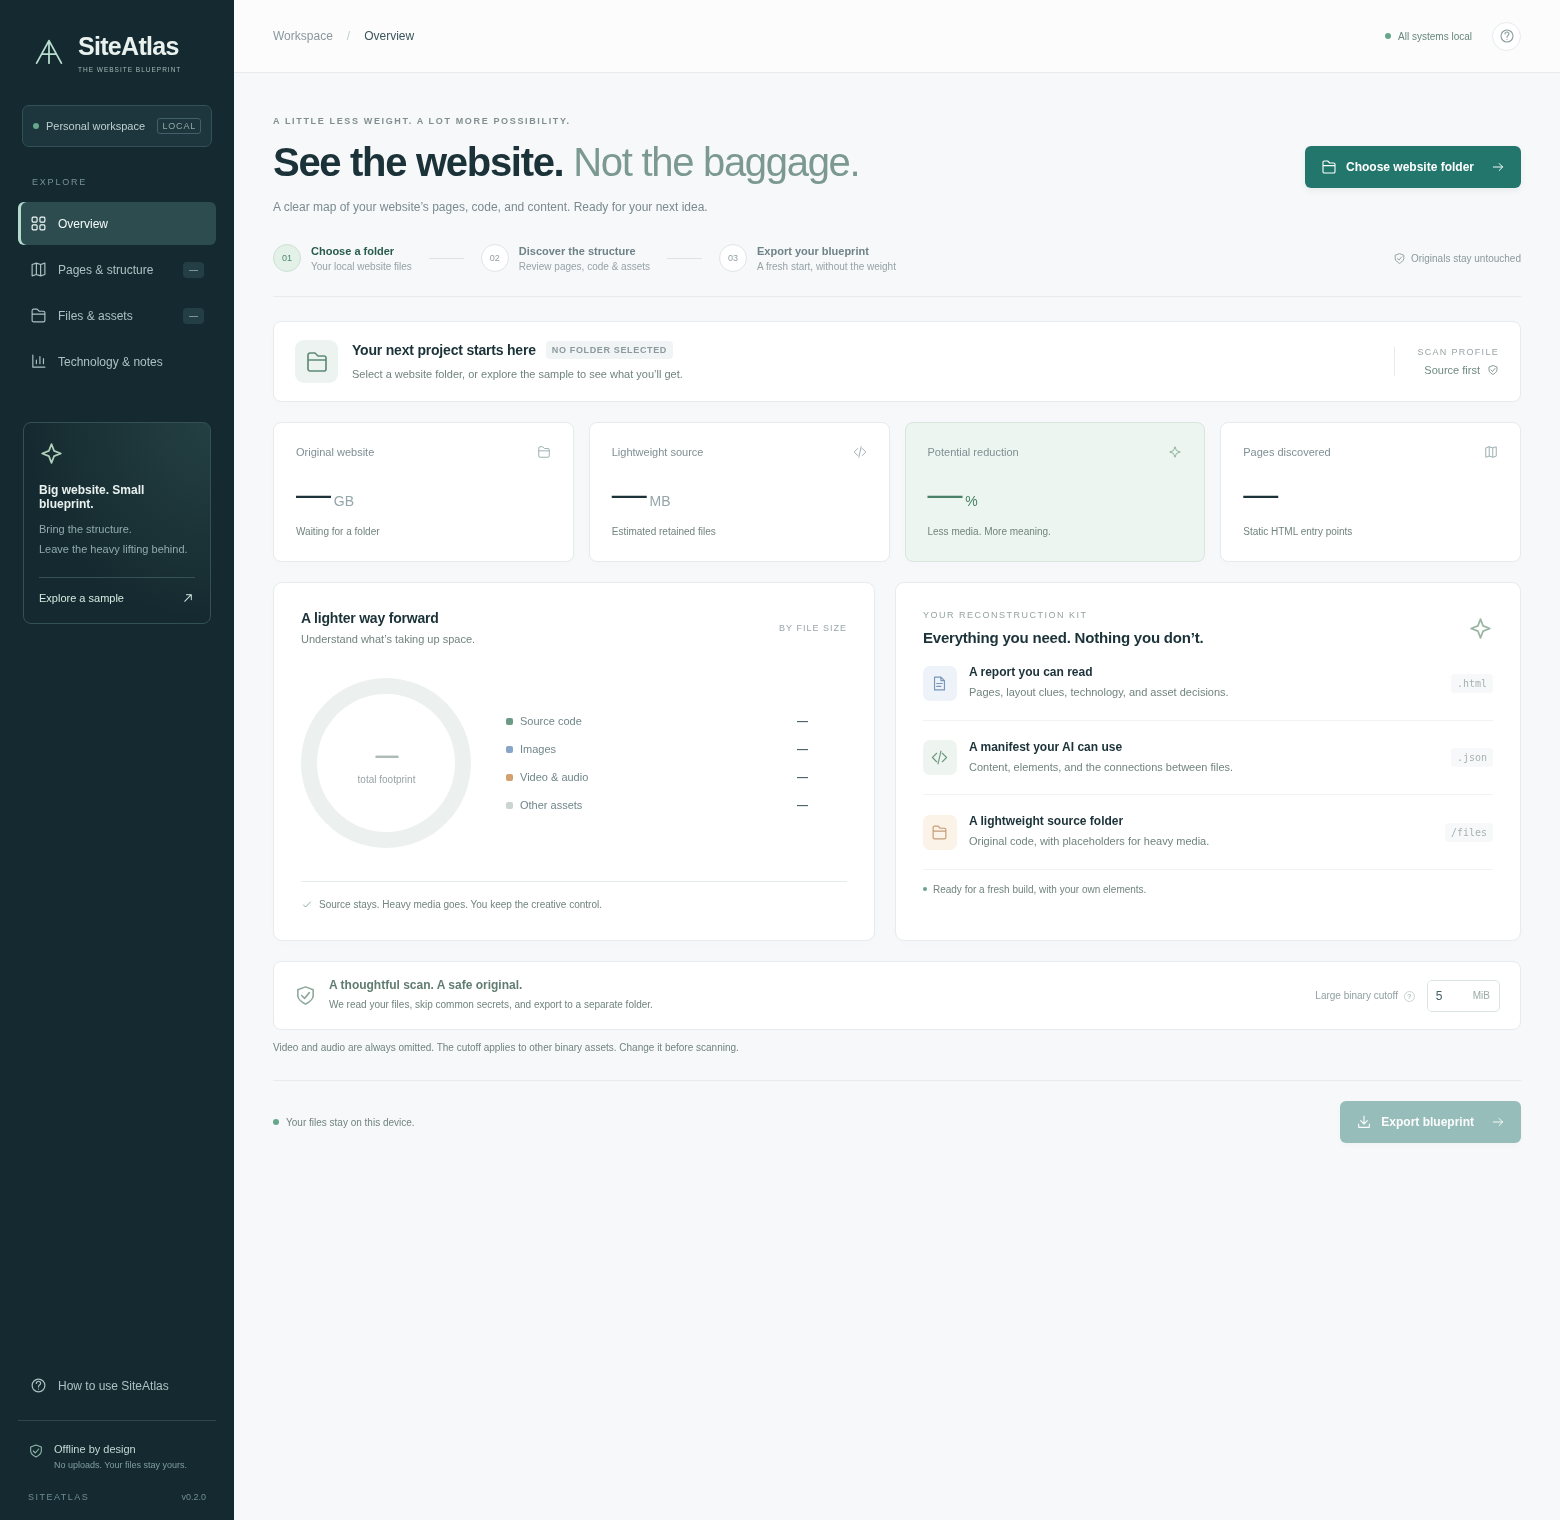
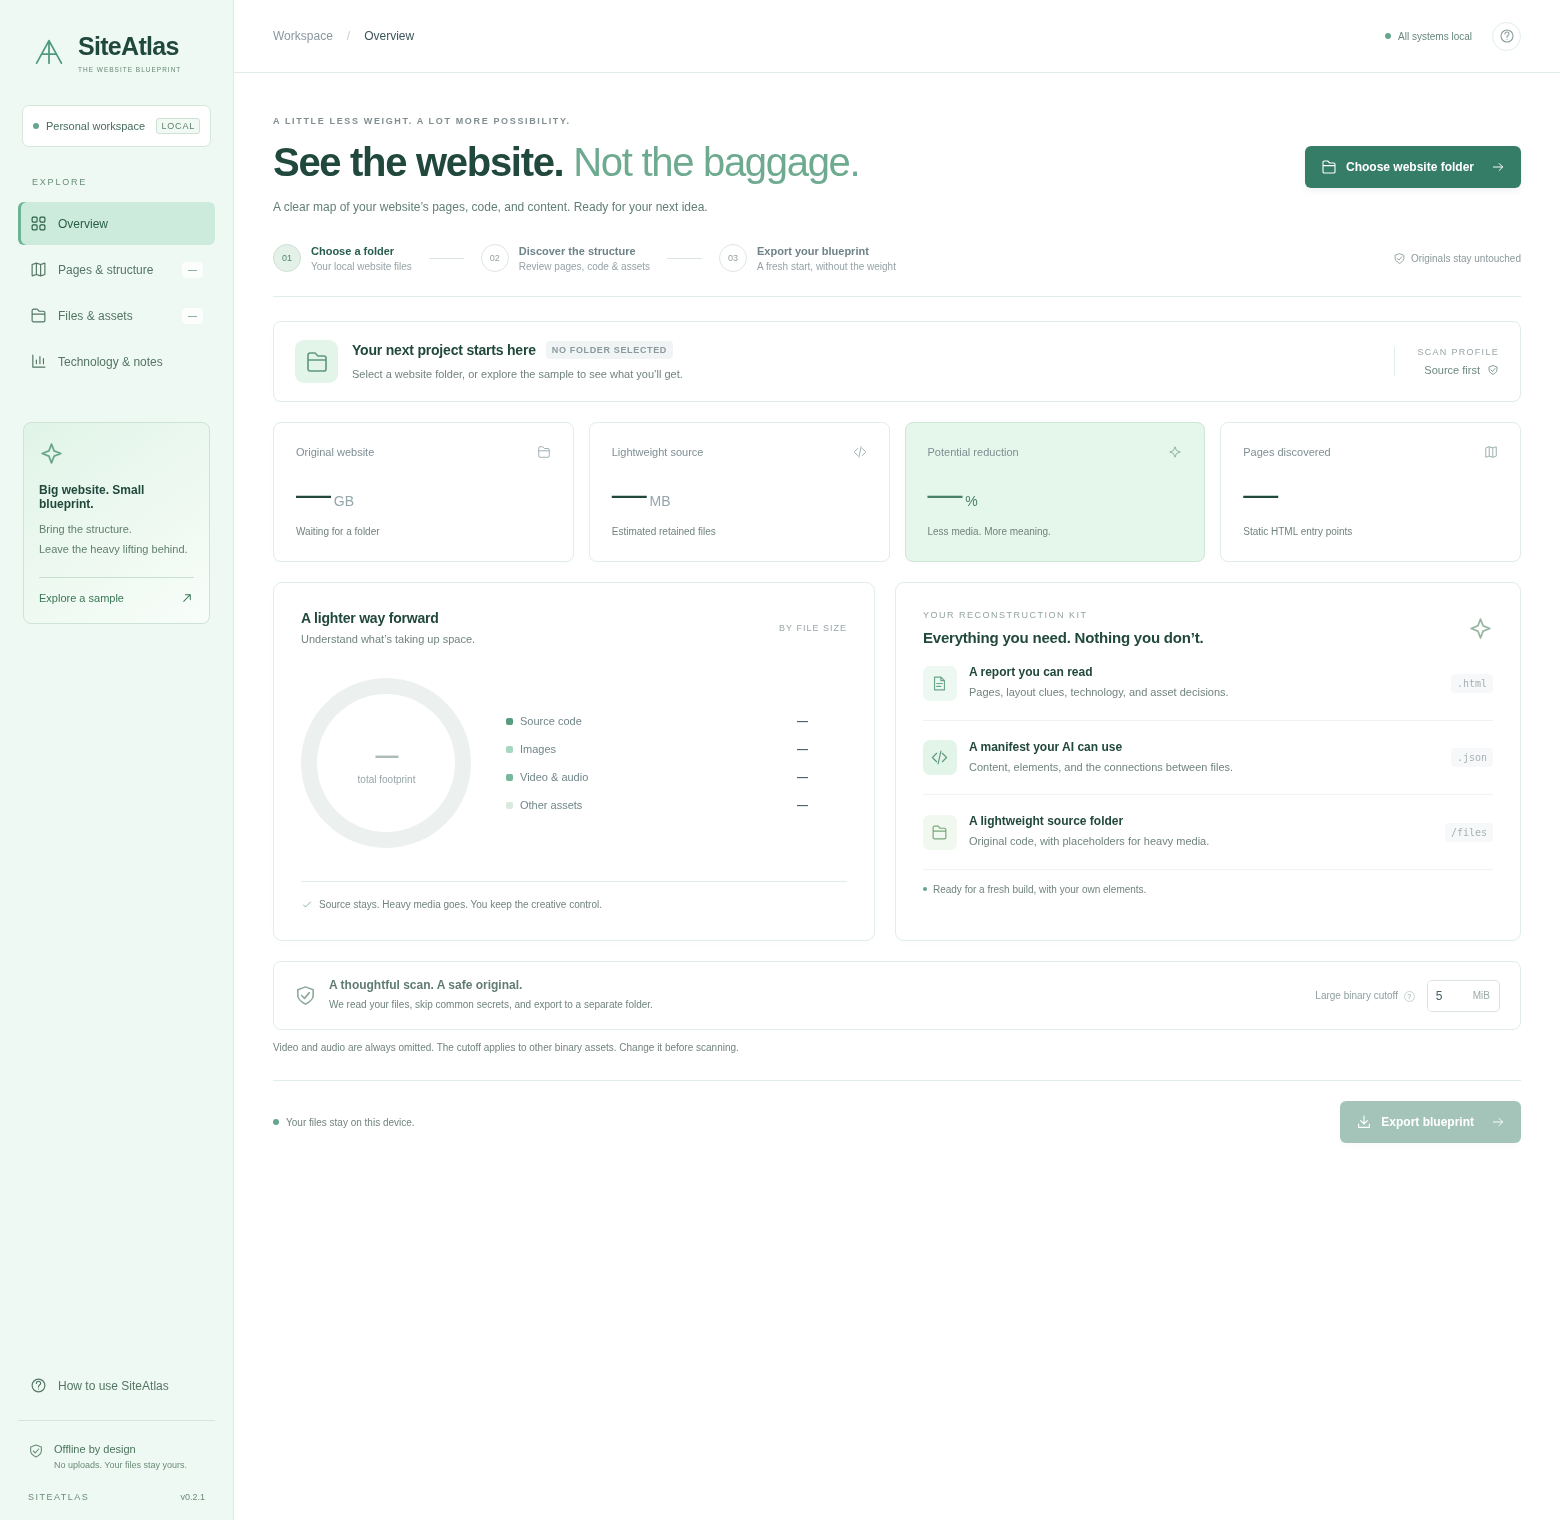
Apply white and seafoam theme and publish direct Windows release downloads

Changed region(s): [[0.0, 0.0, 0.1538, 1.0]]

diff --git a/src/style.css b/src/style.css
@@ -1846,3 +1846,111 @@ footer {
 .guide-tip {
   color: #73877a;
 }
+/* White and seafoam: the same light palette across every surface. */
+:root {
+  --nav: #eff9f4;
+  --nav-muted: #557d6e;
+  --bg: #ffffff;
+  --paper: #ffffff;
+  --ink: #21483c;
+  --muted: #627f73;
+  --line: #e0eee7;
+  --teal: #357d67;
+  --teal-light: #e5f6ed;
+  --orange: #8abca9;
+  --blue: #9acdb7;
+}
+.sidebar {
+  color: #21483c;
+  border-right: 1px solid #dcece2;
+}
+.brand-mark {
+  color: #4f997d;
+}
+.brand > div:last-child > span {
+  color: #658875;
+}
+.workspace-tag {
+  color: #466e5c;
+  background: #ffffff;
+  border-color: #d4e8dc;
+}
+.keycap {
+  color: #61816e;
+  border-color: #cde2d5;
+  background: #f0f9f3;
+}
+.nav-label,
+.version {
+  color: #698d79;
+}
+.nav {
+  color: #547565;
+}
+.nav:hover {
+  background: #e1f3e8;
+}
+.nav.active {
+  background: #cdebdc;
+  color: #285d46;
+  box-shadow: inset 3px 0 #6cb394;
+}
+.nav-count,
+.nav.active .nav-count {
+  background: #ffffffb8;
+  color: #52846b;
+}
+.sidebar-note {
+  border-color: #cce4d5;
+  background: linear-gradient(145deg, #e1f4e8, #f8fdf9);
+}
+.note-art {
+  color: #6aa689;
+}
+.sidebar-note p {
+  color: #62806d;
+}
+.sample-link {
+  color: #397755;
+  border-color: #c8e0d0;
+}
+.privacy {
+  color: #4c735c;
+  border-color: #d2e6d9;
+}
+.privacy svg,
+.privacy span {
+  color: #6b8c77;
+}
+header {
+  background: #ffffff;
+}
+h1 span {
+  color: #6eaa90;
+}
+.project-icon,
+.teal {
+  background: #e3f5e9;
+  color: #5f997c;
+}
+.blue {
+  background: #edf8f2;
+  color: #68a58a;
+}
+.peach {
+  background: #f0f8ef;
+  color: #7aa57b;
+}
+.metrics .savings-card {
+  background: #e5f6eb;
+  border-color: #cce7d6;
+}
+.primary {
+  background: #357d67;
+}
+.primary:hover:not(:disabled) {
+  background: #28644f;
+}
+footer {
+  background: #fffffff5;
+}

diff --git a/src/renderer.js b/src/renderer.js
@@ -3,7 +3,7 @@ let data = null,
   operation = null,
   activeView = "overview";
 const NS = "http://www.w3.org/2000/svg";
-const palette = ["#6b9b86", "#87a5c8", "#d4a06f", "#cbd5d0"];
+const palette = ["#579d7f", "#a6d8c0", "#77b79b", "#d9eae0"];
 const categories = ["Source code", "Images", "Video & audio", "Other assets"];
 const titles = {
   overview: [

diff --git a/src/index.html b/src/index.html
@@ -128,7 +128,7 @@
             Offline by design<span>No uploads. Your files stay yours.</span>
           </div>
         </div>
-        <div class="version">SITEATLAS <span>v0.2.0</span></div>
+        <div class="version">SITEATLAS <span>v0.2.1</span></div>
       </div>
     </aside>
     <main>

diff --git a/docs/USER-GUIDE.md b/docs/USER-GUIDE.md
@@ -81,12 +81,12 @@ Click **How to use SiteAtlas** in the sidebar or the question-mark button at the
 
 ## Windows installation
 
-- **Installer:** run `SiteAtlas-0.2.0-x64-Setup.exe`, choose an install location, and launch from the Start menu or desktop shortcut.
-- **Portable:** run `SiteAtlas-0.2.0-x64-portable.exe`. No Node.js or separate Electron installation is needed. It extracts its runtime to a temporary directory while running.
+- **Installer:** run `SiteAtlas-0.2.1-x64-Setup.exe`, choose an install location, and launch from the Start menu or desktop shortcut.
+- **Portable:** run `SiteAtlas-0.2.1-x64-portable.exe`. No Node.js or separate Electron installation is needed. It extracts its runtime to a temporary directory while running.
 - Windows 10/11 **64-bit** is the target. ARM and 32-bit Windows are not included.
 - Builds are unsigned. Windows may show an unknown-publisher or SmartScreen prompt. Verify where you downloaded the executable and its checksum. A signing certificate is not included.
 
-To get a fresh GitHub build, open **Actions → Windows executable → latest successful run → Artifacts → SiteAtlas-Windows-x64**. The artifact contains both executables. The workflow runs automatically when app/build files change on `main`, and can also be started manually.
+[Download the portable Windows executable](https://github.com/Sam4d/Manifest/releases/latest/download/SiteAtlas-Windows-x64.exe), or open [Releases](https://github.com/Sam4d/Manifest/releases/latest) for the installer and SHA-256 checksums. Each new version is published after successful native Windows checks and packaging. The download is named `SiteAtlas-Windows-x64.exe` for a stable direct link.
 
 ## Troubleshooting
 

diff --git a/README.md b/README.md
@@ -13,7 +13,9 @@ Two self-contained **Windows 10/11 x64** executables are built:
 - **Setup** — an installer with a location picker and Start menu / desktop shortcuts.
 - **Portable** — run without installing. Node.js is not required.
 
-Get them from **[Actions → Windows executable](https://github.com/Sam4d/Manifest/actions/workflows/desktop-build.yml) → latest successful run → Artifacts → SiteAtlas-Windows-x64**. The workflow runs on relevant pushes to `main` and also supports manual runs. Builds are unsigned; publisher identity is not verified by Windows.
+**[Download the Windows executable →](https://github.com/Sam4d/Manifest/releases/latest/download/SiteAtlas-Windows-x64.exe)**
+
+Or open [Releases](https://github.com/Sam4d/Manifest/releases/latest) for the installer and SHA-256 checksums. Releases are published automatically after successful Windows checks and packaging. Builds are unsigned; publisher identity is not verified by Windows.
 
 **[Read the illustrated usage guide →](docs/USER-GUIDE.md)**
 
